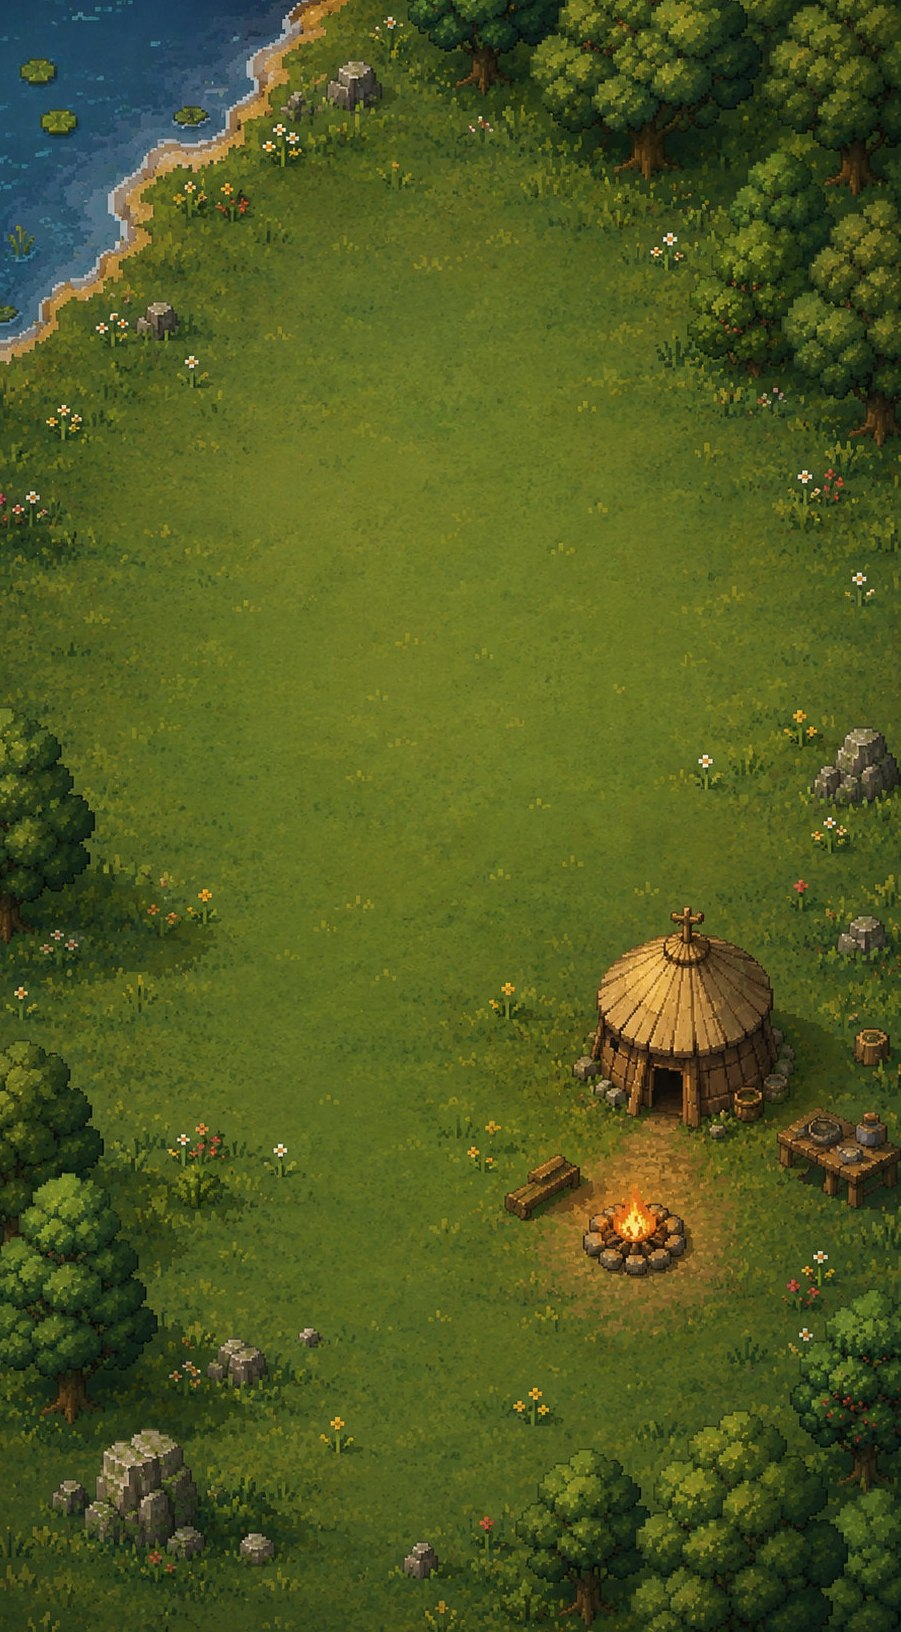
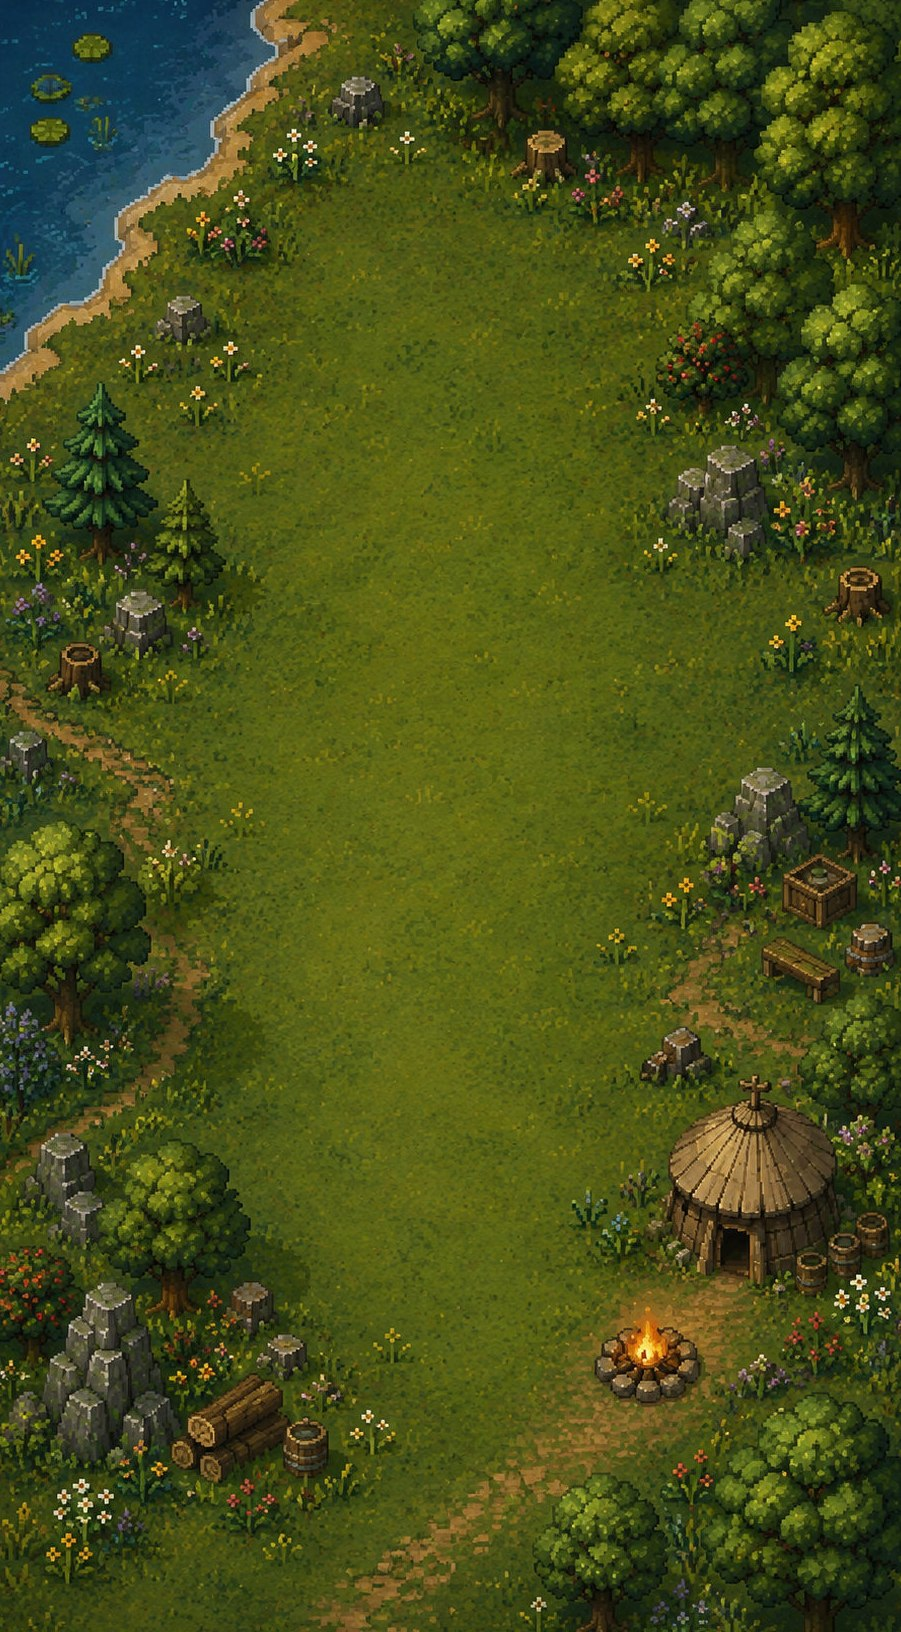
The glen is centred, and the wordmark is swappable
New backdrop art, and the menu now stands where it frames: the art runs an
open corridor down the middle between forest on both flanks, so the logo and
the plaques ride as ONE centred block over that corridor instead of hanging
from the top of the screen. #cloudChip is pinned to the foot to make that
work — left in the flow it joins the block and pulls the whole thing off
centre. The hut and campfire sit low-right in the art and stay clear of the
buttons on a phone.

The wordmark is swappable by filename: drop assets/ui/title-logo.png in and
it replaces the type, no code change and no manifest, the same rule the
building art already follows. #logoArt starts hidden and reveals only on a
successful decode, and a 404 makes it remove itself, so a repo without the
file keeps the CSS wordmark rather than flashing a broken image. Authored art
wins and the type is the fallback; the two are never both drawn. Verified
both directions with a stand-in file, which is not committed.

tests/boot.mjs gains two checks for the swap — the img is wired to both
handlers and the class rule hides the type, and the type fallback is still
in the markup. Full sweep green, 43/43.

Claude-Session: https://claude.ai/code/session_01NT8NhxSDJ2RjRCxMVsqz6T

diff --git a/index.html b/index.html
@@ -331,10 +331,15 @@
   #scrTitle { padding: 0; }
   #scrTitle .tbg { position: absolute; inset: 0; z-index: 0; }
   #scrTitle .tbg img { width: 100%; height: 100%; object-fit: cover; display: block; }
+  /* the logo + menu ride as ONE centred block: the art frames an open
+     corridor down the middle, which is the ground the menu is meant to
+     stand on. The chip is pinned to the foot so it never joins the block
+     and pulls it off centre. */
   #scrTitle .tcol {
     position: relative; z-index: 1; flex: 1 1 0; min-height: 0;
-    display: flex; flex-direction: column; align-items: center; width: 100%;
-    padding: calc(var(--safe-top) + 3vh) 16px calc(env(safe-area-inset-bottom, 0px) + 12px);
+    display: flex; flex-direction: column; align-items: center;
+    justify-content: center; width: 100%;
+    padding: calc(var(--safe-top) + 12px) 16px calc(env(safe-area-inset-bottom, 0px) + 52px);
   }
   /* the wordmark is a CARVED BLOCK, not tinted text: a full 8-direction dark
      outline gives it mass and holds its edge over the busy beach/water band
@@ -366,7 +371,17 @@
     text-shadow: 0 2px 0 rgba(18,12,5,0.85), 0 3px 8px rgba(0,0,0,0.6);
   }
   .tspacer { flex: 1 1 0; }
-  .tmenu { margin-top: 4vh; width: min(340px, 90vw); display: flex; flex-direction: column; gap: 11px; }
+  .tmenu { margin-top: 26px; width: min(340px, 90vw); display: flex; flex-direction: column; gap: 11px; }
+  /* THE WORDMARK IS SWAPPABLE BY FILENAME, like the building art: drop
+     assets/ui/title-logo.png in and it replaces the type, with no code
+     change and no manifest. It starts hidden and reveals only on a
+     successful decode, so a missing file leaves the CSS wordmark standing
+     rather than flashing a broken image. Authored art wins; the type is
+     the fallback, never a second thing drawn on top of it. */
+  #logoArt { display: none; width: min(330px, 84vw); height: auto; image-rendering: pixelated;
+    filter: drop-shadow(0 4px 0 rgba(20,12,4,0.55)) drop-shadow(0 10px 18px rgba(0,0,0,0.5)); }
+  #scrTitle.hasLogoArt #logoArt { display: block; }
+  #scrTitle.hasLogoArt .logo { display: none; }
 
   /* THE CARVED WOODEN PLAQUE (title menu only).
      The corners are a STEPPED CHAMFER, never border-radius: a smooth
@@ -492,7 +507,9 @@
   #scrTitle .trow3 .pxi { width: 17px; height: 17px; }
   #scrTitle .trow3 .blab { gap: 6px; }
   #cloudChip {
-    margin-top: 12px; font-family: var(--pxfont); font-size: 12px; color: #cfe0a8;
+    position: absolute; left: 50%; transform: translateX(-50%);
+    bottom: calc(env(safe-area-inset-bottom, 0px) + 14px);
+    font-family: var(--pxfont); font-size: 12px; color: #cfe0a8;
     background: linear-gradient(#2e3d1c, #223014);
     border-radius: 0; padding: 7px 16px;
     clip-path: polygon(
@@ -512,14 +529,15 @@
   }
   /* short viewports (landscape phones): compact so nothing clips */
   @media (max-height: 600px) {
-    #scrTitle .tcol { padding-top: calc(var(--safe-top) + 6px); }
+    #scrTitle .tcol { padding: calc(var(--safe-top) + 6px) 16px calc(env(safe-area-inset-bottom, 0px) + 40px); }
     /* 400 below 40px: Pixelify's C closes at small sizes on any heavier cut */
     .logo { font-size: 36px; font-weight: 400; }
+    #logoArt { width: min(240px, 60vw); }
     .tagline { display: none; }
-    .tmenu { margin-top: 10px; gap: 7px; }
+    .tmenu { margin-top: 12px; gap: 7px; }
     #scrTitle .abtn.big { min-height: 44px; }
     #scrTitle .trow3 .abtn { min-height: 40px; }
-    #cloudChip { margin-top: 8px; padding: 4px 10px; }
+    #cloudChip { bottom: calc(env(safe-area-inset-bottom, 0px) + 8px); padding: 4px 10px; }
   }
 
   /* new-game option rows */
@@ -938,6 +956,9 @@
     </picture>
     <div class="tcol">
       <div class="thead">
+        <img id="logoArt" src="assets/ui/title-logo.png" alt="CLANFIRE" decoding="async"
+             onload="if(this.naturalWidth)document.getElementById('scrTitle').classList.add('hasLogoArt')"
+             onerror="this.remove()">
         <h1 class="logo">CLANFIRE</h1>
         <p class="tagline">GATHER · EXPAND · CONQUER</p>
       </div>
@@ -951,9 +972,8 @@
           <button class="abtn" id="btnTitleLoad"><span class="blab"><svg class="pxi" viewBox="0 0 16 16" shape-rendering="crispEdges" aria-hidden="true"><rect x="1" y="2" width="14" height="12" fill="#2c1f0e"/><rect x="2" y="3" width="12" height="5" fill="#cbb389"/><rect x="2" y="3" width="12" height="2" fill="#e6d4b0"/><rect x="2" y="9" width="12" height="4" fill="#a8906a"/><rect x="2" y="8" width="12" height="1" fill="#2c1f0e"/><rect x="6" y="6" width="4" height="4" fill="#2c1f0e"/><rect x="6.7" y="6.7" width="2.6" height="2.6" fill="#f2cd62"/></svg>Load</span></button>
         </div>
       </div>
-      <div class="tspacer"></div>
-      <div id="cloudChip">☁ …</div>
     </div>
+    <div id="cloudChip">☁ …</div>
   </div>
 
   <div class="screen" id="scrNewgame">

diff --git a/CLAUDE.md b/CLAUDE.md
@@ -2026,15 +2026,24 @@ set.
 menu no longer sits over the drifting demo world — it sits over SUPPLIED ART
 (`assets/ui/title-bg.webp` served, `.jpg` fallback, declared in `#scrTitle`'s
 own markup so the fetch starts with the HTML parse, behind the splash). The
-art was delivered with a rounded-corner frame baked into its edges; the
-shipped asset is cropped 20px per side so no dark arc ever shows at a
-viewport corner. **The menu sits over the MEADOW, the scene shows BELOW it**:
-the hut and campfire are baked into the art at ~56–77% of its height, so the
-reference layout (scene top, menu bottom) would bury the focal point under
-the buttons — logo, then plaques, then open ground is the layout OUR art
-asks for. The demo world still runs behind the image, deliberately
+art is delivered with a frame baked into its edges; the shipped asset is
+cropped 20px per side so no dark arc ever shows at a viewport corner (the
+crop+encode is a scratch script, not a build step — there is still no build
+step). **The logo and menu ride as ONE CENTRED BLOCK**: the art frames an
+open corridor down the middle and that corridor is the ground the menu
+stands on, so `.tcol` is `justify-content: center` and `#cloudChip` is
+PINNED to the foot — left in the flow, the chip joins the block and pulls
+it off centre. The demo world still runs behind the image, deliberately
 untouched: it is the no-image fallback, and the other shell screens still
-show it through their translucent gradients. **The buttons are carved
+show it through their translucent gradients.
+**The wordmark is SWAPPABLE BY FILENAME** — drop `assets/ui/title-logo.png`
+in and it replaces the type, the same rule the building art follows, with
+no code change and no manifest. `#logoArt` starts `display: none` and
+reveals only on a successful decode (`onload` adds `.hasLogoArt`, which
+also hides the `<h1>`); a 404 fires `onerror` and the element removes
+itself, so a repo without the file keeps the CSS wordmark instead of
+flashing a broken image. Authored art WINS and the type is the fallback —
+never both drawn. **The buttons are carved
 plaques** (`#scrTitle .abtn`): dark outline, tan rim, top/bottom bevels,
 faint vertical grain, four nailhead studs (`::after`), and a HARD 4px drop
 shadow; pressed (`:active`) the plaque translates 3px down, the drop
